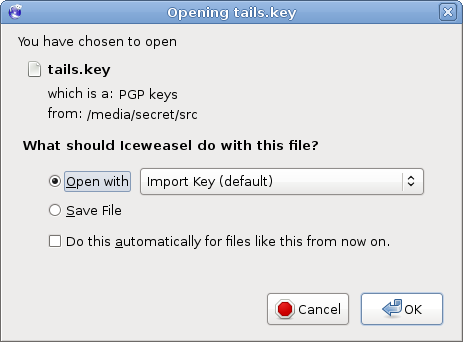
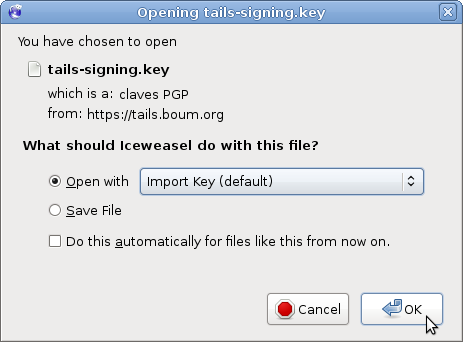
doc: Update a few screenshots

diff --git a/wiki/src/download.html b/wiki/src/download.html
@@ -145,8 +145,8 @@ sudo apt-get install seahorse-plugins
 
 	<p>You will get notified will the following message:</p>
 
-	<p><img src="download/keys_imported.png" alt="Keys Imported. Imported
-	keys for T &lt;amnesia@boum.org&gt; (A) Amnesia &lt;amnesia@boum.org&gt;"/></p>
+	<p><img src="download/key_imported.png" alt="Key Imported. Imported a
+	key for T &lt;amnesia@boum.org&gt; (A)"/></p>
 
 	<p>Now, download the cryptographic signature corresponding to the ISO
 	image you want to verify:</p>
